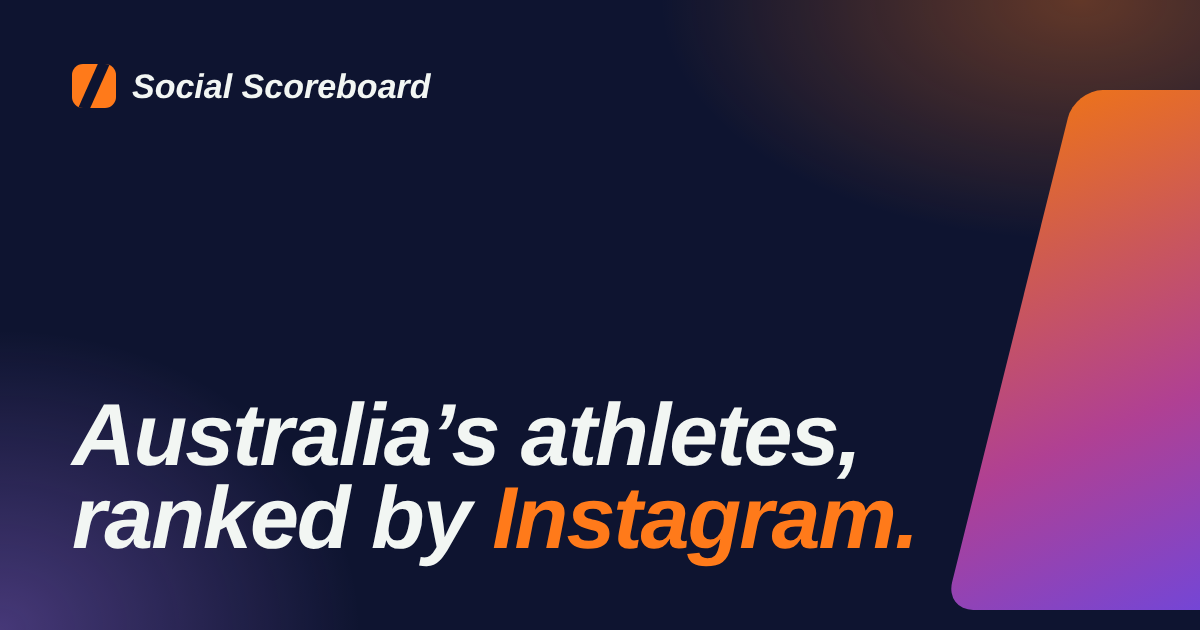
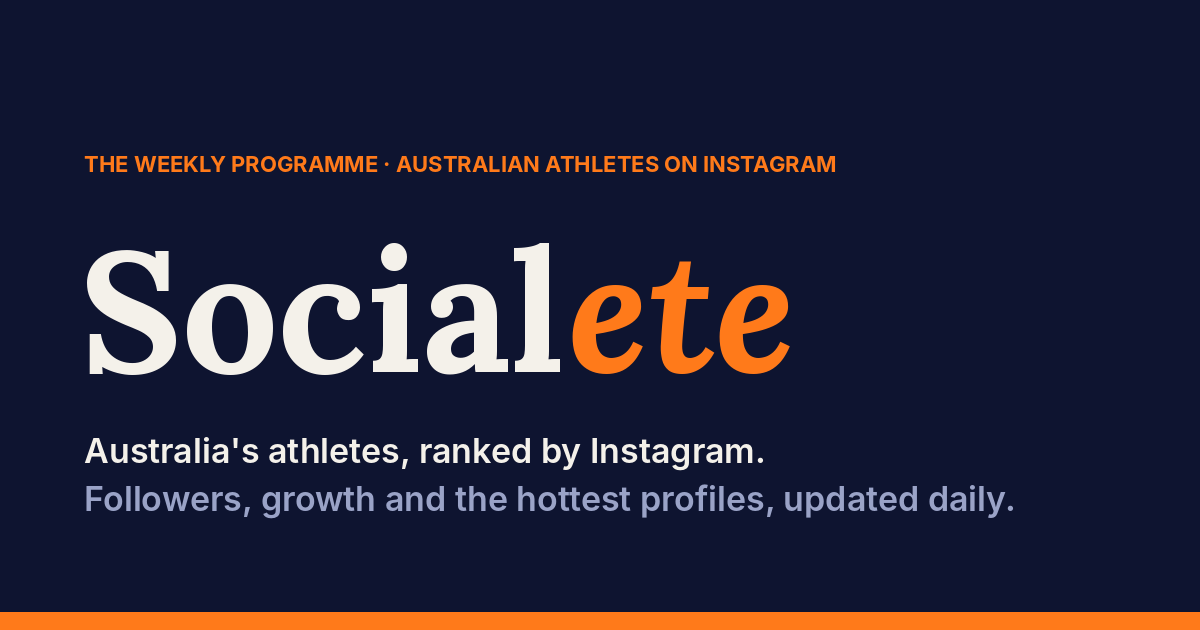
Rename the site to Socialete
Masthead shows 'Social' in cream and 'ete' in orange italics; page titles,
share title and share image updated to match.

Claude-Session: https://claude.ai/code/session_015u7XiuPVK8y8qHtoVyucpg

diff --git a/site/index.html b/site/index.html
@@ -3,11 +3,11 @@
 <head>
 <meta charset="utf-8">
 <meta name="viewport" content="width=device-width, initial-scale=1">
-<title>Social Scoreboard</title>
+<title>Socialete</title>
 <meta name="description" content="Australian athletes ranked by Instagram followers, updated daily.">
 <meta name="theme-color" content="#0E1430">
 <meta property="og:type" content="website">
-<meta property="og:title" content="Social Scoreboard">
+<meta property="og:title" content="Socialete – Australia's athletes, ranked by Instagram">
 <meta property="og:description" content="Australian athletes ranked by Instagram. Updated daily.">
 <meta property="og:image" content="og.png">
 <meta name="twitter:card" content="summary_large_image">
@@ -504,7 +504,7 @@
 <body>
 <div class="bar">
   <div class="wrap">
-    <a class="logo" href="#/"><i aria-hidden="true"></i><span id="siteName">Social Scoreboard</span></a>
+    <a class="logo" href="#/"><i aria-hidden="true"></i><span id="siteName">Social<b>ete</b></span></a>
     <nav class="nav" id="nav" aria-label="Main"></nav>
     <span class="updated" id="updated"></span>
   </div>
@@ -519,7 +519,9 @@
 <script>
 /* ---------------------------------------------------------------- setup */
 // Change the site's name here (also update the <title> and og:title tags at the top).
-const SITE_NAME = "Social Scoreboard";
+const SITE_NAME = "Socialete";
+// How the name is split in the masthead: the second part shows in orange italics.
+const LOGO_PARTS = ["Social", "ete"];
 // Phase 1 tracks followers only. Switch this to true when engagement
 // (likes, comments, posts) is being collected, to show those features.
 const SHOW_ENGAGEMENT = false;
@@ -1291,8 +1293,7 @@ window.addEventListener("hashchange", route);
 fetch("data.json", { cache: "no-store" }).then(r => r.json()).then(d => {
   DATA = d;
   const asOf = d.players.map(p => p.as_of).filter(Boolean).sort().at(-1);
-  const sp = SITE_NAME.lastIndexOf(" ");
-  $("siteName").innerHTML = sp > 0 ? `${esc(SITE_NAME.slice(0, sp))} <b>${esc(SITE_NAME.slice(sp + 1))}</b>` : esc(SITE_NAME);
+  $("siteName").innerHTML = LOGO_PARTS.join("") === SITE_NAME ? `${esc(LOGO_PARTS[0])}<b>${esc(LOGO_PARTS[1])}</b>` : esc(SITE_NAME);
   buildNav();
   if (asOf) $("updated").innerHTML = `<span class="live"></span>Updated ${niceDate(asOf, { day: "numeric", month: "short" })}`;
   route();

diff --git a/README.md b/README.md
@@ -1,6 +1,6 @@
-# Social Scoreboard
+# Socialete
 
-A website (working title: Social Scoreboard) that ranks Australian athletes by Instagram followers, with growth over 7 days, 30 days and a year, and a profile page for each athlete. GitHub collects the numbers every morning and republishes the site for free.
+Socialete is a website that ranks Australian athletes by Instagram followers, with growth over 7 days, 30 days and a year, and a profile page for each athlete. GitHub collects the numbers every morning and republishes the site for free.
 
 **Phase 1:** followers only, across three sports. Basketball: every Australian in the NBA and WNBA, plus every player in the NBL and WNBL (imports included and labelled). Soccer: the latest Matildas and Socceroos squads. NFL: the Australians on NFL rosters. Engagement (likes, comments, posts) comes in a later phase.
 
@@ -146,4 +146,4 @@ Someone who plays in two leagues (e.g. the WNBA in the northern summer and the W
 
 ## Changing the site's name
 
-The name appears in three places in `site/index.html`: the line `const SITE_NAME = "..."` near the top of the script, the `<title>` tag, and the `og:title` tag. The image shown when the site is shared on social media is `site/og.png`; replace it with your own 1200 × 630 image whenever you like. Some sites (Facebook, LinkedIn) need its full address, so once your site is live, change `content="og.png"` in the `og:image` tag to `content="https://YOUR-USERNAME.github.io/YOUR-REPO/og.png"`.
+The name appears in three places in `site/index.html`: the line `const SITE_NAME = "..."` near the top of the script (and `LOGO_PARTS` just below it, which splits the name into the cream and orange parts of the masthead), the `<title>` tag, and the `og:title` tag. The image shown when the site is shared on social media is `site/og.png`; replace it with your own 1200 × 630 image whenever you like. Some sites (Facebook, LinkedIn) need its full address, so once your site is live, change `content="og.png"` in the `og:image` tag to `content="https://YOUR-USERNAME.github.io/YOUR-REPO/og.png"`.
